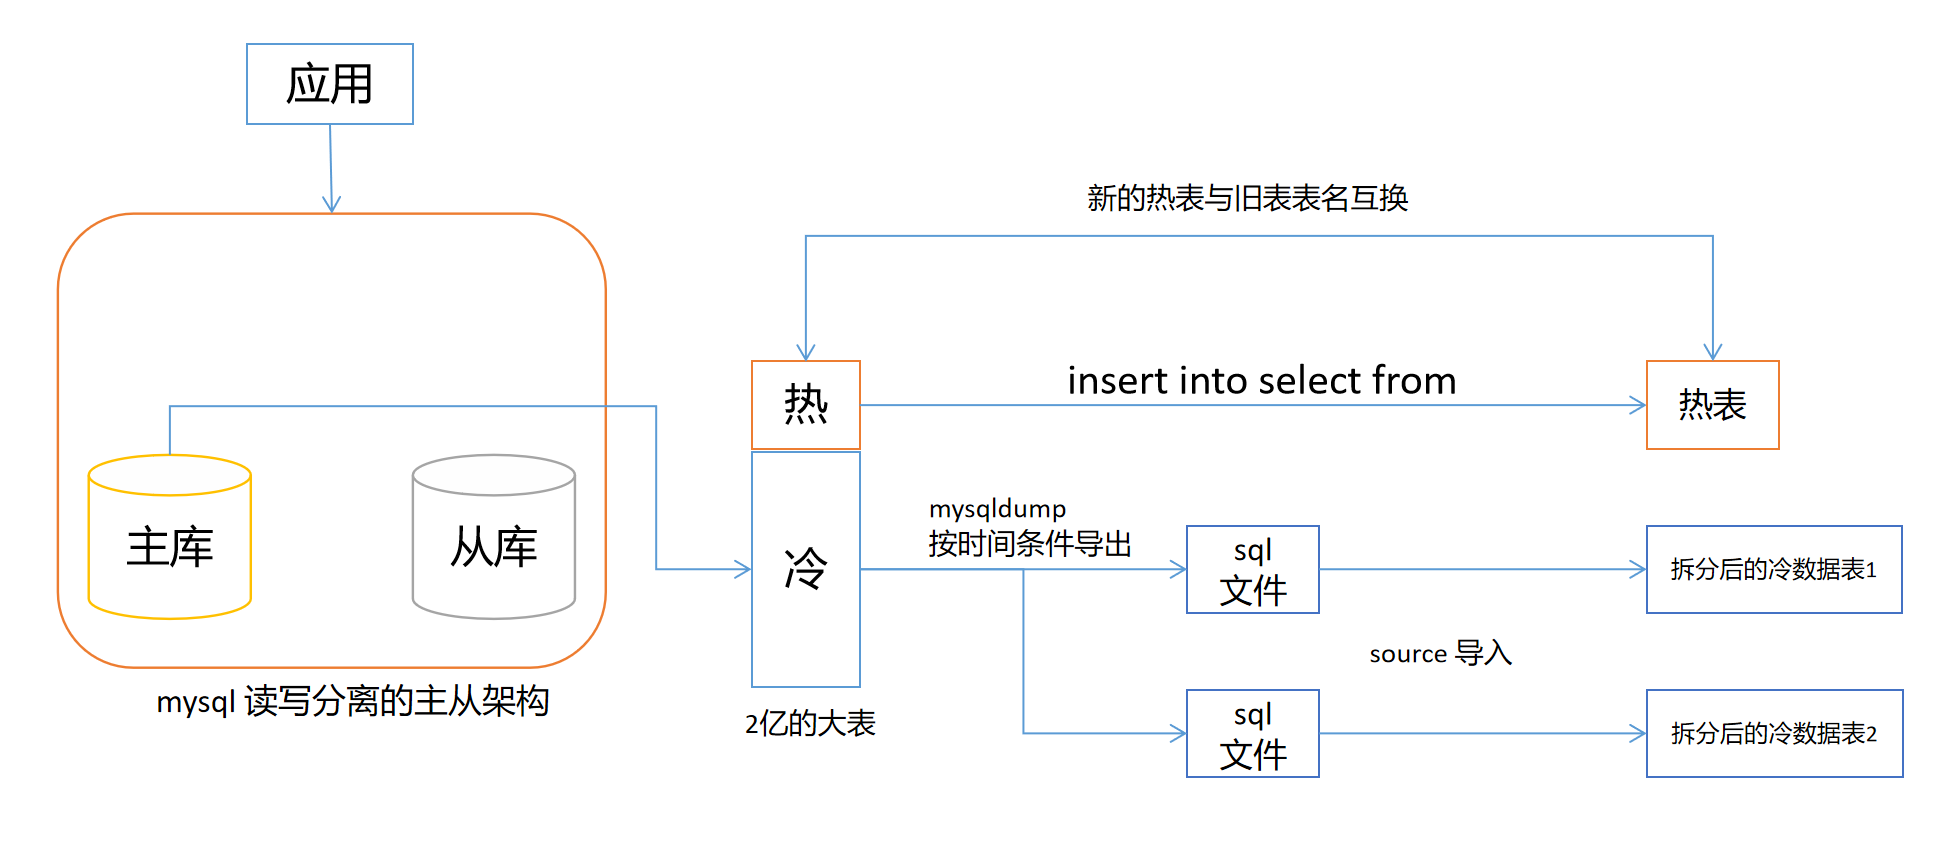
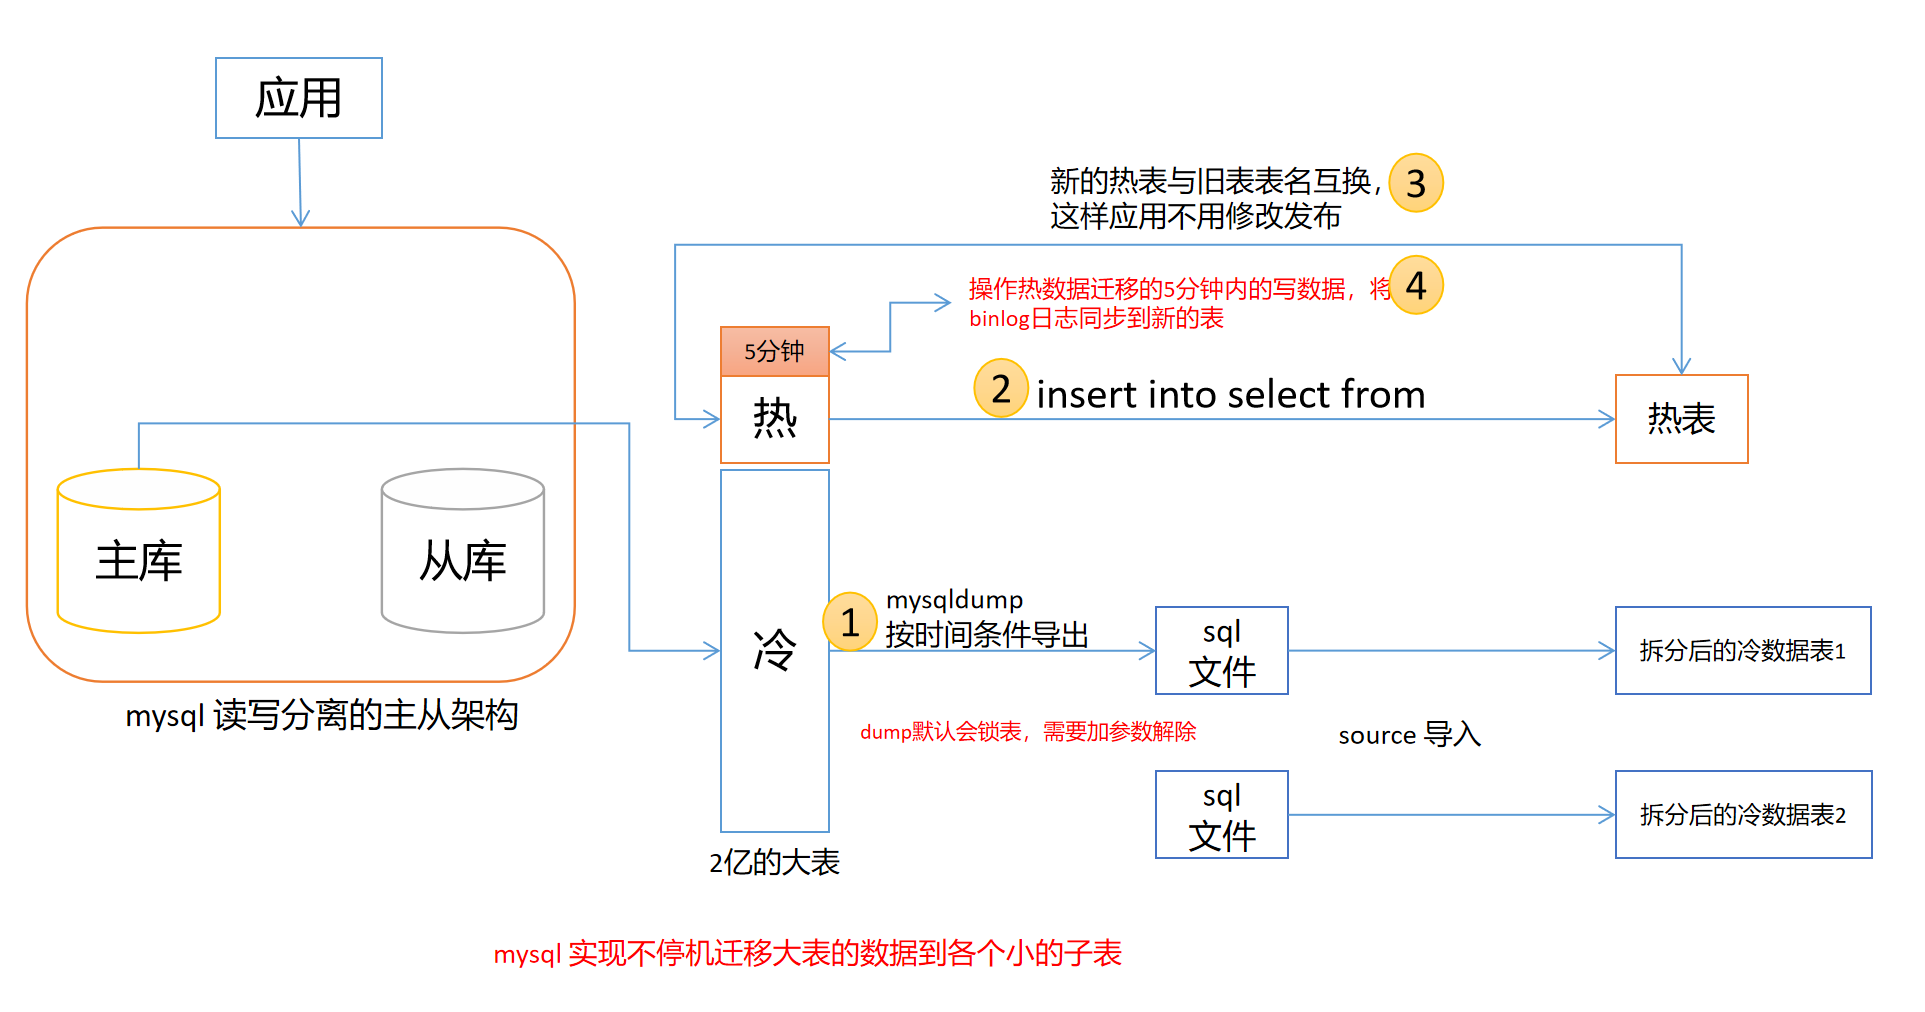
mongodb 导入导出

diff --git a/数据库/冷热数据分离.md b/数据库/冷热数据分离.md
@@ -31,8 +31,9 @@
   - 2亿的数据，数据表的磁盘文件大概有 60 GB
   - 复制一个2亿数据的表，大概需要一个小时的时间
   - 把5百万的数据从一个大表复制出来插入到一个新的表大概要 3分钟
-  - 将一个表的数据复制到另一个表，id数据不会改变
+  - 将一个表的数据复制到另一个表(insert into select from)，id数据不会改变
   - 在一个2亿数据的表中dump 2千万出来需要5分钟, 导入需要10分钟
+  - dump 出来的Id 数据不会改变
 - mongodb
   - mongodb 的 export 对应 import
     - 导出的数据是json文件，可读性好，容易恢复
@@ -52,9 +53,10 @@
   - mysql 的dump命令导出来的脚本文件里，每一条语句带有原来的表名，没法把脚本导入到新的表
     - 解决办法:每次导出一部分数据的时候，就把表名改成这部分数据对应的表名,再dump出来
     - 操作的时候最好把原来的表备份一份，防止操作顺序问题导致数据被删掉
-  - mysqldump 导出的时候会锁表，导致表不可写入(Waiting for table metadata lock)
+  - **[mysqldump 导出的时候默认会锁表，导致表不可写入，需要加上参数解除锁表](#)**(Waiting for table metadata lock)
   - mysql source 命令会导致锁表，不可以读写(Waiting for table metadata lock)
   - mysql dump出来的数据恢复进去的时候需要关掉binlog日志，这些日志没用还占用时间
 - mongodb
-  - mongodb 的json数据impor进去出现分配虚拟内存错误，虚拟内存溢出
+  - mongoexport 命令不会锁表
+  - mongodb 的json数据import进去出现分配虚拟内存错误，虚拟内存溢出
   - mongodb 导出数据的时候指定的条件特殊符号,空格引号都需要转义

diff --git a/数据库/mongodb.md b/数据库/mongodb.md
@@ -10,7 +10,7 @@
 - mongodb 导出
 ```
 mongoexport --host localhost:27017 -d build -c member_coupon_document 
--q {\"receiveTime\":{\"$gte\":\"2023-01-01\b00:00:00\",\"$lt\":\"2023-04-25\b00:00:00\"}} 
+-q {\"receiveTime\":{\"$gte\":\"2023-04-01\b00:00:00\",\"$lt\":\"2023-04-25\b00:00:00\"}} 
 -o D:\mongo-export\document-2023-01-01.json
 ```
 
